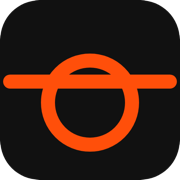
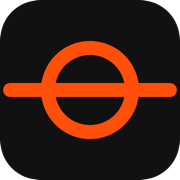
Correct the mark geometry: horizon bisects the circle at its centre
I read the line as sitting near the top of the ring, from a blurry upscale of
the wordmark. Magnifying the source 10x shows it runs through the circle's exact
vertical centre, bisecting it.

Moves the line onto the circle's centre y in the favicon, the apple icon and the
route-transition loader, and regenerates the raster variants. The loader's sun
now scales open around the horizon rather than settling down onto it, since
there is no longer anything to settle onto.

Changed region(s): [[0.0, 0.2222, 1.0, 0.8611]]

diff --git a/src/components/RouteTransition.tsx b/src/components/RouteTransition.tsx
@@ -116,13 +116,13 @@ export function RouteTransition() {
     >
       <div className="route-transition-mark">
         <svg viewBox="0 0 64 64" className="h-20 w-20" fill="none" aria-hidden="true">
-          {/* The horizon line sweeps out from the centre, then the sun settles onto it. */}
+          {/* The horizon draws outward from the centre, then the sun opens around it. */}
           <line
             className="route-transition-horizon"
             x1="3.5"
-            y1="29"
+            y1="32"
             x2="60.5"
-            y2="29"
+            y2="32"
             stroke="var(--oberizon-orange)"
             strokeWidth="5"
             strokeLinecap="round"
@@ -130,7 +130,7 @@ export function RouteTransition() {
           <circle
             className="route-transition-sun"
             cx="32"
-            cy="36.5"
+            cy="32"
             r="15"
             stroke="var(--oberizon-orange)"
             strokeWidth="5"

diff --git a/src/app/globals.css b/src/app/globals.css
@@ -171,16 +171,16 @@ a {
   animation: route-fade-out 220ms ease-in both;
 }
 
-/* The horizon draws outward from the centre, then the sun settles onto it. */
+/* The horizon draws outward from the centre, then the sun opens around it. */
 .route-transition-horizon {
   transform-box: view-box;
-  transform-origin: 32px 29px;
+  transform-origin: 32px 32px;
   animation: route-horizon 520ms cubic-bezier(0.22, 1, 0.36, 1) both;
 }
 
 .route-transition-sun {
   transform-box: view-box;
-  transform-origin: 32px 36.5px;
+  transform-origin: 32px 32px;
   animation: route-sun 620ms cubic-bezier(0.22, 1, 0.36, 1) both;
 }
 
@@ -219,7 +219,7 @@ a {
 @keyframes route-sun {
   0% {
     opacity: 0;
-    transform: translateY(9px) scale(0.72);
+    transform: scale(0.55);
   }
 
   55% {
@@ -228,7 +228,7 @@ a {
 
   100% {
     opacity: 1;
-    transform: translateY(0) scale(1);
+    transform: scale(1);
   }
 }
 
